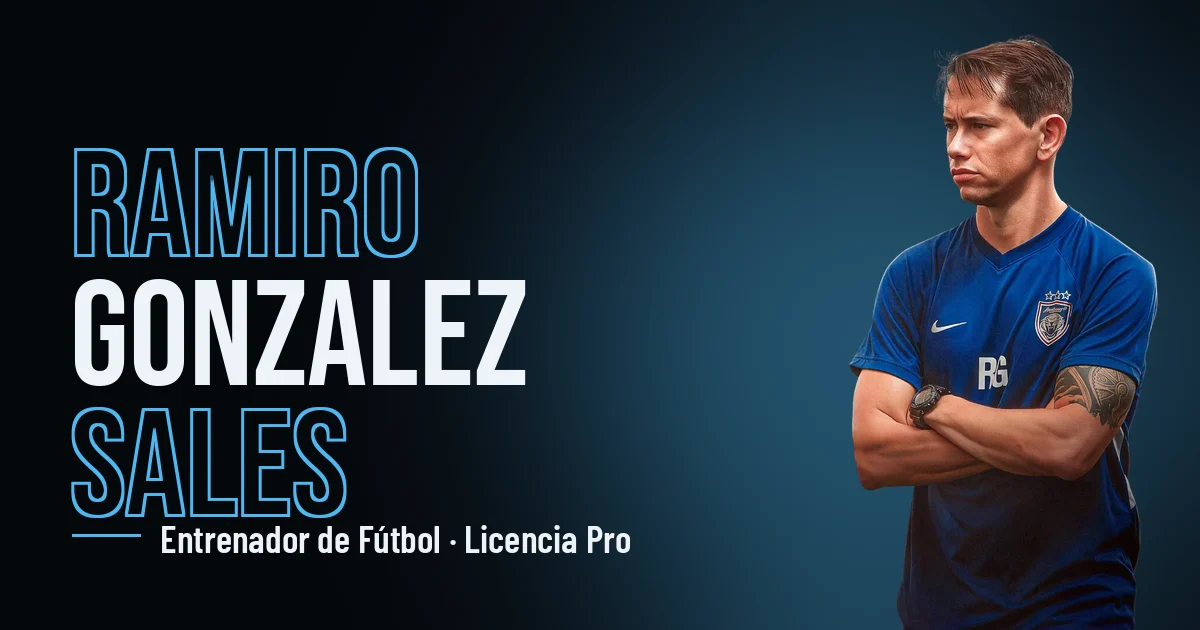
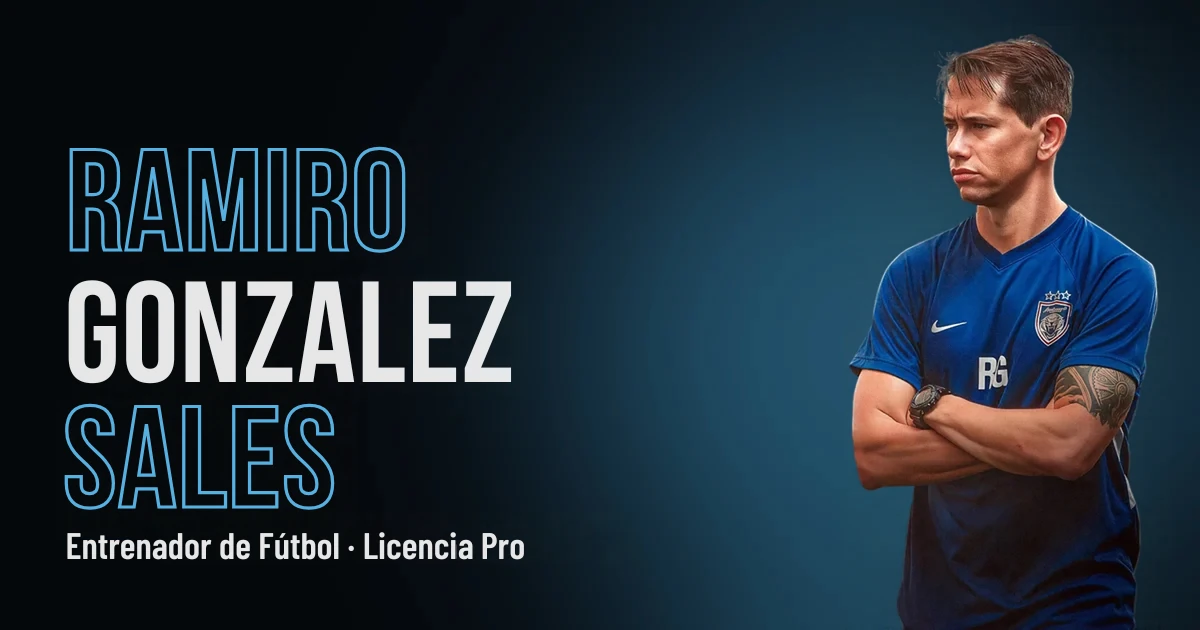
feat(seo): nueva imagen OG y datos de partidos actualizados (+200 partidos y 13 títulos)
Claude-Session: https://claude.ai/code/session_01HwY35wgJft8PJ3KiQXLDif

Changed region(s): [[0.0308, 0.2111, 0.5242, 0.9048]]

diff --git a/src/components/SEO/Seo.jsx b/src/components/SEO/Seo.jsx
@@ -10,21 +10,21 @@ const META = {
     title: 'Ramiro Gonzalez Sales | Entrenador de Fútbol · Licencia Pro',
     description: "Ramiro Gonzalez Sales, entrenador de fútbol con Licencia Pro. DT de la Reserva de Atlético Tucumán, ex asistente en Johor Darul Ta'zim. Contactalo.",
     ogTitle: 'Ramiro Gonzalez Sales — Entrenador de Fútbol',
-    ogDescription: 'Entrenador de Fútbol · Licencia Pro · +160 partidos y 13 títulos · Ex futbolista profesional.',
+    ogDescription: 'Entrenador de Fútbol · Licencia Pro · +200 partidos y 13 títulos · Ex futbolista profesional.',
   },
   en: {
     locale: 'en_US',
     title: 'Ramiro Gonzalez Sales | Football Coach · Pro Licence',
     description: "Ramiro Gonzalez Sales, football coach with Pro Licence. Head Coach of Atlético Tucumán Reserves, ex Johor Darul Ta'zim assistant. Get in touch.",
     ogTitle: 'Ramiro Gonzalez Sales — Football Coach',
-    ogDescription: 'Football Coach · Pro Licence · 160+ matches and 13 titles · Former professional footballer.',
+    ogDescription: 'Football Coach · Pro Licence · 200+ matches and 13 titles · Former professional footballer.',
   },
   it: {
     locale: 'it_IT',
     title: 'Ramiro Gonzalez Sales | Allenatore di Calcio · Licenza Pro',
     description: "Ramiro Gonzalez Sales, allenatore di calcio con Licenza Pro. Allenatore Riserve Atlético Tucumán, ex vice al Johor Darul Ta'zim. Contattalo.",
     ogTitle: 'Ramiro Gonzalez Sales — Allenatore di Calcio',
-    ogDescription: 'Allenatore di Calcio · Licenza Pro · +160 partite e 13 titoli · Ex calciatore professionista.',
+    ogDescription: 'Allenatore di Calcio · Licenza Pro · +200 partite e 13 titoli · Ex calciatore professionista.',
   },
 }
 

diff --git a/index.html b/index.html
@@ -17,7 +17,7 @@
     <!-- Open Graph -->
     <meta property="og:type" content="profile" />
     <meta property="og:title" data-rh="true" content="Ramiro Gonzalez Sales — Entrenador de Fútbol" />
-    <meta property="og:description" data-rh="true" content="Entrenador de Fútbol · Licencia Pro · +160 partidos y 13 títulos · Ex futbolista profesional." />
+    <meta property="og:description" data-rh="true" content="Entrenador de Fútbol · Licencia Pro · +200 partidos y 13 títulos · Ex futbolista profesional." />
     <meta property="og:url" data-rh="true" content="https://ramirogonzalezdt.com/" />
     <meta property="og:image" content="https://ramirogonzalezdt.com/og-image.webp" />
     <meta property="og:image:width" content="1200" />
@@ -30,7 +30,7 @@
     <!-- Twitter Card -->
     <meta name="twitter:card" content="summary_large_image" />
     <meta name="twitter:title" data-rh="true" content="Ramiro Gonzalez Sales — Entrenador de Fútbol" />
-    <meta name="twitter:description" data-rh="true" content="Entrenador de Fútbol · Licencia Pro · +160 partidos y 13 títulos · Ex futbolista profesional." />
+    <meta name="twitter:description" data-rh="true" content="Entrenador de Fútbol · Licencia Pro · +200 partidos y 13 títulos · Ex futbolista profesional." />
     <meta name="twitter:image" content="https://ramirogonzalezdt.com/og-image.webp" />
     <meta name="twitter:image:alt" content="Ramiro Gonzalez Sales, entrenador de fútbol con Licencia Pro" />
 

diff --git a/src/components/Hero/Hero.jsx b/src/components/Hero/Hero.jsx
@@ -12,13 +12,13 @@ import '../../styles/globals.css'
 gsap.registerPlugin(ScrollTrigger)
 
 const TXT = {
-  // "+160 partidos y 13 titulos"
+  // "+200 partidos y 13 titulos"
   matches: { es: 'partidos y', en: 'matches and', it: 'partite e' },
   titles: { es: 'titulos', en: 'titles', it: 'titoli' },
   photoAlt: { es: 'entrenador de fútbol', en: 'football coach', it: 'allenatore di calcio' },
 }
 
-/* Número destacado dentro de "+160 partidos y 13 titulos" */
+/* Número destacado dentro de "+200 partidos y 13 titulos" */
 function Num({ children }) {
   return (
     <Box
